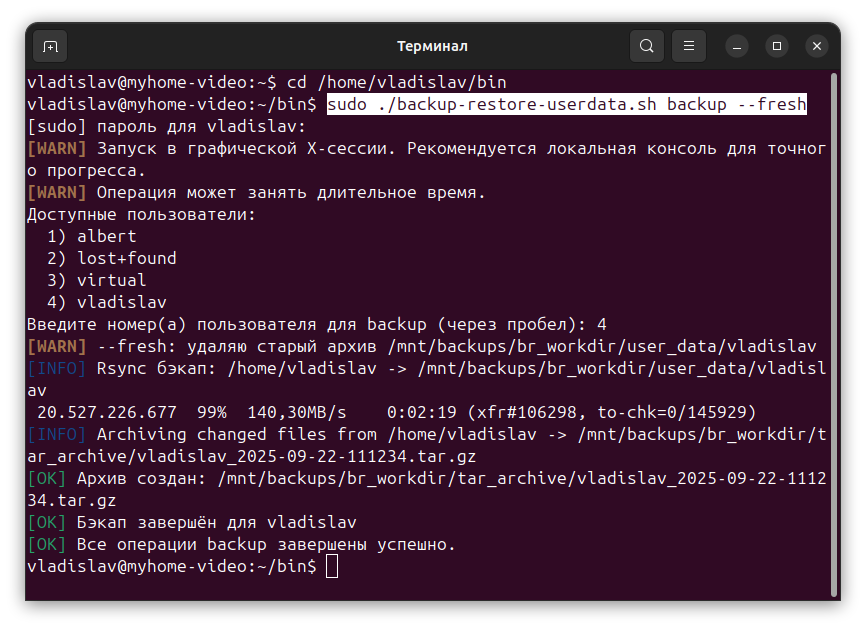
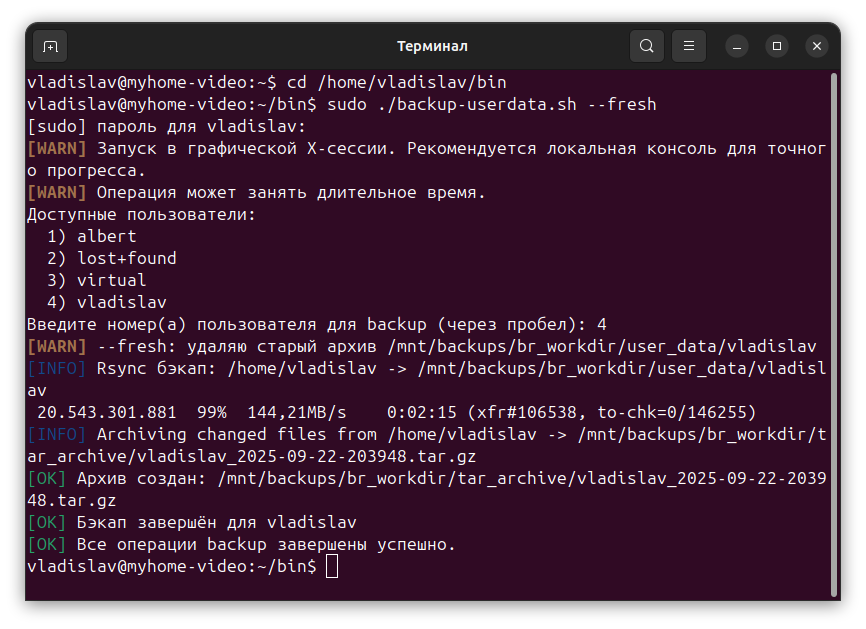
Обновление структуры: README, скриншоты, добавлены скрипты dev-tools

diff --git a/README.md b/README.md
@@ -42,56 +42,35 @@ Consists of two steps:
 
 > ⚠ Important: You can only use the multimedia environment creation feature under Ubuntu, regardless of a backup.
 
-## 📂 Structure
+## 📂 Brief instructions
 
-backup_kit/
-├── scripts/
-│ ├── install.sh # installer
-│ ├── backup-ubuntu-22.04.sh # Ubuntu 22.04 backup
-│ ├── backup-ubuntu-24.04.sh # Ubuntu 24.04 backup
-│ ├── backup-debian-12.sh # Debian 12 backup
-│ ├── restore.sh # system restore
-│ ├── restore-ubuntu-22.04.sh # Ubuntu 22.04 restore
-│ ├── restore-ubuntu-24.04.sh # Ubuntu 24.04 restore
-│ ├── restore-debian-12.sh # Debian 12 restore
-│ ├── backup-restore-userdata.sh # user data backup/restore
-│ ├── safe-restore.sh # safe user data restore
-│ ├── hdd-setup-profiles.sh # format HDD and create users
-│ ├── install-mediatools-apt.sh # install media software via APT
-│ ├── install-mediatools-flatpak.sh # install media software via Flathub
-│ ├── install-nvidia-cuda.sh # installation of the NVIDIA and CUDA drivers
-│ ├── check-shotcut-gpu.sh # NVIDIA GPU check
-│ └── check-last-archive.sh # view available archives
-├── docs/
-│ ├── EN/
-│ │ ├── README_EN.md # main README (English)
-│ │ ├── README_ALL_EN.md # full documentation
-│ │ ├── README_DIFF_EN.md # differences between versions
-│ │ ├── README_DISK_EN.md # working with SSD/HDD
-│ │ ├── README_REINSTALL_SYSTEM_EN.md # reinstalling the system
-│ │ ├── README_SHOTCUT_EN.md # using Shotcut
-│ └── RU/
-│ ├── README_RU.md # main README (Russian)
-│ ├── README_ALL_RU.md # полная документация
-│ ├── README_DIFF_RU.md # отличия версий
-│ ├── README_DISK_RU.md # работа с SSD/HDD
-│ ├── README_REINSTALL_SYSTEM_RU.md # переустановка системы
-│ ├── README_SHOTCUT_RU.md # работа с Shotcut
-│ ├── README_SSD_SETUP_RU.md # настройка системы на SSD
-├── images/
-│ ├── Backup_Kit_SSD_partitions.png
-│ ├── Backup_Kit_HDD_userdata_partitions.png
-│ ├── Backup_Kit_Install.png
-│ ├── Backup_Kit_Directory.png
-│ ├── Backup_Kit_System_backup.png
-│ ├── Backup_Kit_Ranger_logs_read.png
-│ ├── Backup_Kit_Backup_userdata.png
-│ ├── Backup_Kit_Restore_userdata.png
-│ └── Backup_Kit_Shotcut_presets_ChatGPTChart.png
-├── patches/
-│ ├── hdd-setup-profiles.patch
-│ └── global-backupkit.diff
-└── LICENSE
+### 1. System Backup Scripts
+| Script | Description |
+|--------|---------|
+| `backup-system.sh` | Creates a backup of system files and settings. |
+| `restore-system.sh` | Restores system files from a backup. |
+
+### 2. User Data Scripts
+| Script | Description |
+|--------|---------|
+| `backup-userdata.sh` | Daily/manual backup of user data. |
+| `restore-userdata.sh` | Safely restores user data. |
+
+### 3. Utilities and Wrappers
+| Script | Description |
+|--------|----------|
+| `check-last-archive.sh` | Checks for the presence of the user's last archive. |
+| `install.sh` | Installs Backup Kit and creates directories and permissions. |
+| `add-cron-backup.sh` | Adds a cron job for daily backups with logging, location verification, and time selection. |
+| `clean-backup-logs.sh` | Deletes old backup logs from `backup-userdata.sh`. |
+
+### 4. Media and GPU Tools
+| Script | Description |
+|--------|---------|
+| `install-nvidia-cuda.sh` | Installs NVIDIA and CUDA drivers. |
+| `check-shotcut-gpu.sh` | Checks GPU availability for Shotcut. |
+| `install-mediatools-flatpak.sh` | Install media tools via Flatpak. |
+| `install-mediatools-apt.sh` | Install media tools via APT. |
 
 ## 🚀 Quick Start / Быстрый старт
 
@@ -99,11 +78,11 @@ backup_kit/
 git clone https://github.com/username/backup-kit.git
 cd backup-kit
 ./install.sh
-./backup-ubuntu-24.04.sh
-./restore
-./backup-restore-userdata.sh backup
-./backup-restore-userdata.sh backup --fresh
-./backup-restore-userdata.sh restore
+./backup-system.sh
+./restore-system.sh
+./backup-userdata.sh
+./backup-userdata.sh --fresh
+./restore-userdata.sh
 ```
 
 ## 📖 Documentation / Документация
